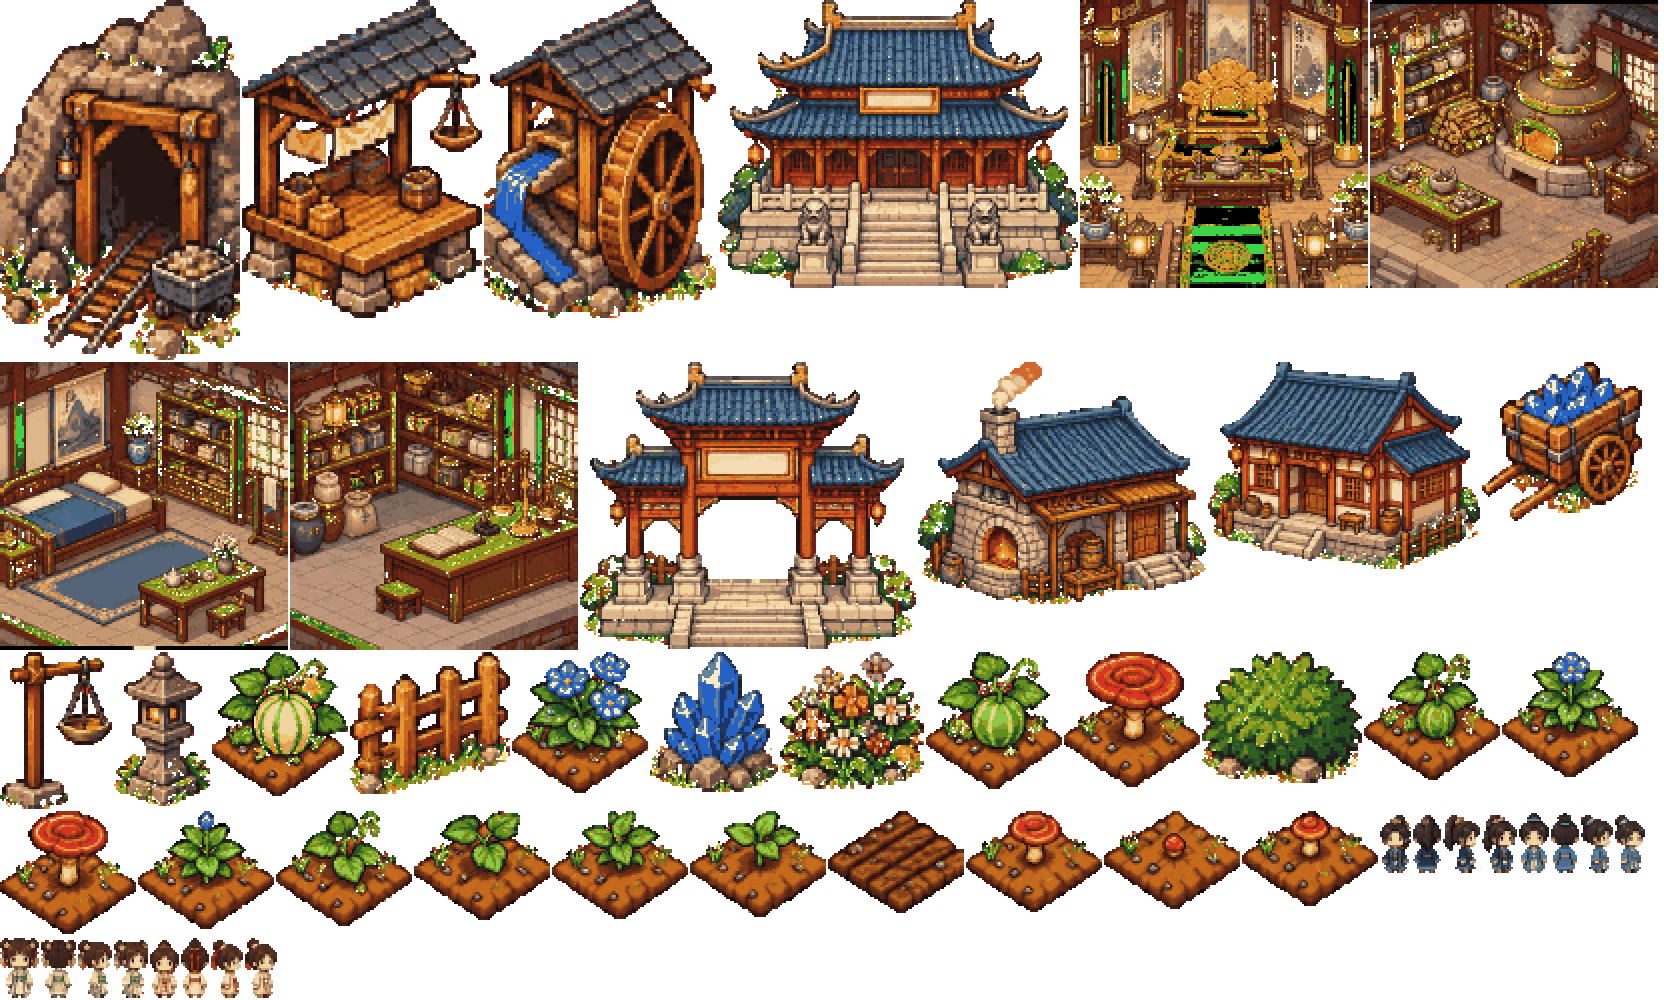
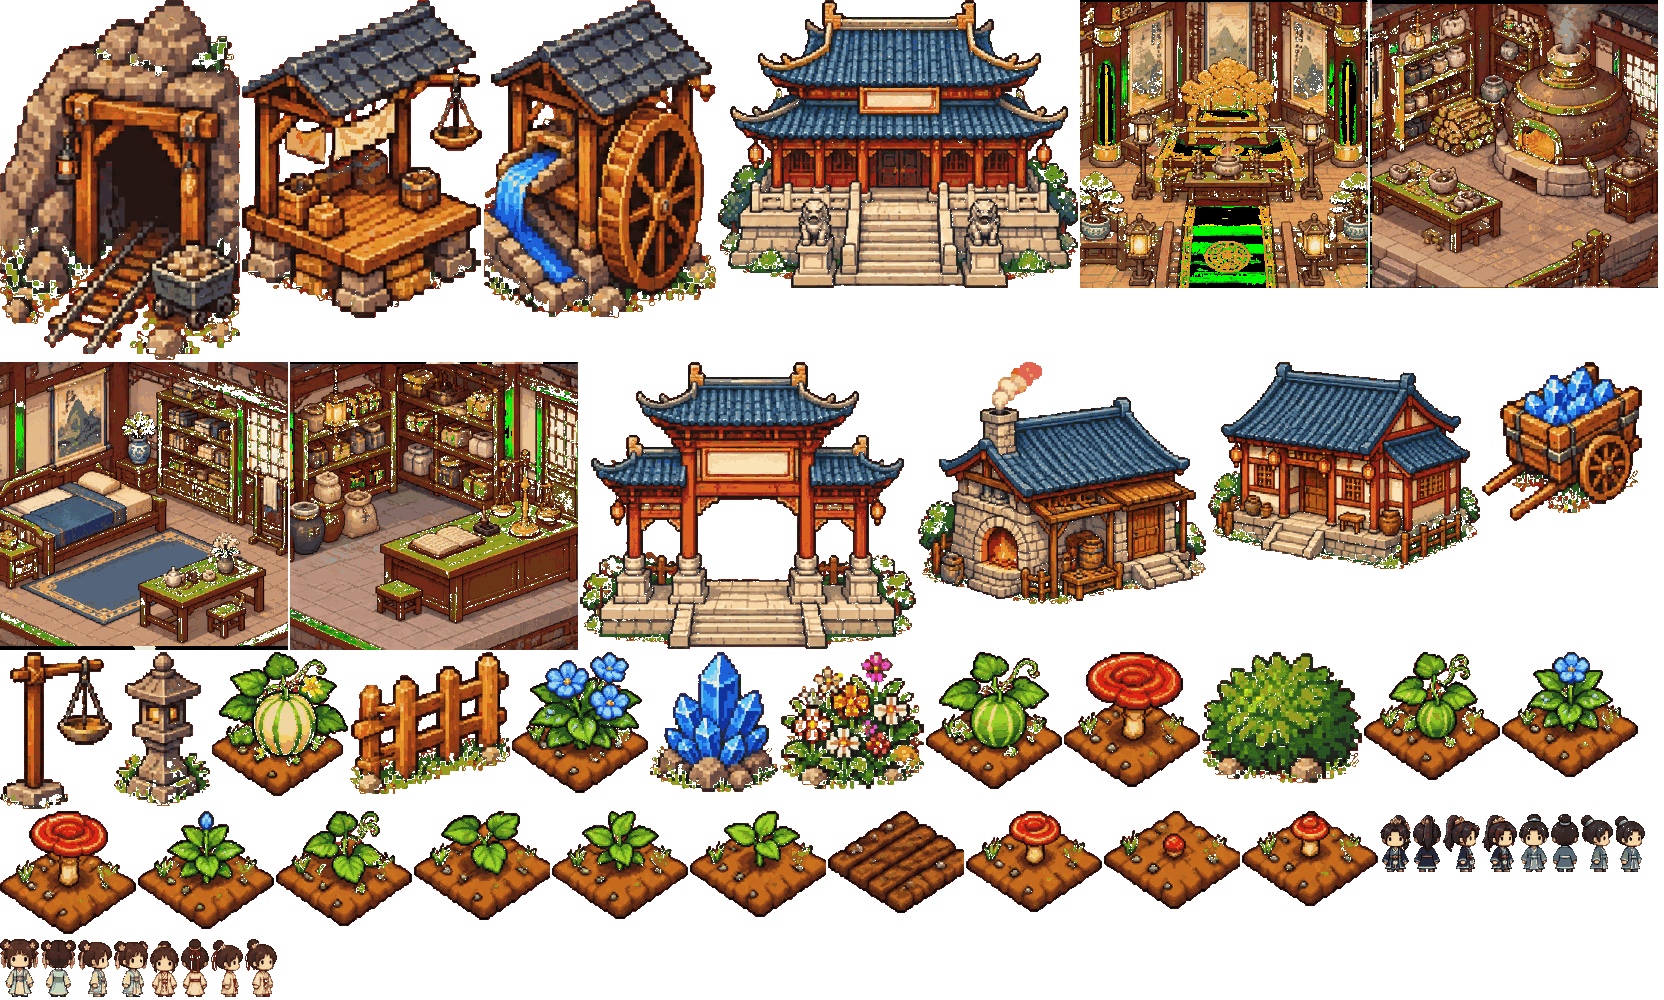
fix15 像素高密度重做：撤销fix14降采样(人物恢复64网格+组调色板限色/众数簇清理/硬alpha纪律)；地面层÷2→÷1(texel=1世界px)；地面贴图shyfai重生2整表8贴图(密草/花草/土路/垄沟田土/水面/岩面/石板/岸线+衍生帧,色相向岸线蓝对齐)；建筑/UI f=1同纪律重处理；fix14层断言改÷1口径并登记原因,新增fix15专项(手机视口390×844/DSF3)6/6；全套25套件全绿

Changed region(s): [[0.0, 0.0, 1.0, 1.0]]

diff --git a/index.html b/index.html
@@ -1555,7 +1555,7 @@ const Scene = {
      file:// 下读像素被污染则只降采样不锁色。试点层以此为兜底基底（石板坪/岩面等无原生贴图区沿用它）。 */
   _pixelBaseCanvas(){
     const src = this.staticLayer; if (!src) return null;
-    const F = 2, w = Math.floor(CONFIG.world.w / F), h = Math.floor(CONFIG.world.h / F);   // fix14：÷3→÷2，地面 texel（2 世界px）与人物 texel（≈1.95）对齐，消除像素尺度三倍差
+    const F = 1, w = Math.floor(CONFIG.world.w / F), h = Math.floor(CONFIG.world.h / F);   // fix15：÷1，地面 texel＝1 世界px（fix14 的 ÷2 仍偏粗，主人复否后改最高密度）
     const c = document.createElement('canvas'); c.width = w; c.height = h;
     const g = c.getContext('2d'); g.imageSmoothingEnabled = true;
     g.drawImage(src, 0, 0, w, h);
@@ -1579,11 +1579,11 @@ const Scene = {
   /* 像素地面层（全量批 v2）：布局与 _paintGroundTextured 逐项同构，贴图源全换原生像素——
      草地 pxp 草 A＋pxf 草 B（S7 带花）双贴图马赛克 → 土路动线 → 药圃田基 → 池塘水面＋S7 岸线三向
      → 矿区岩面（S7）→ 石板前坪×5 与大殿石阶（S7 台阶格，石板/台阶共用此格——生图侧清单本就同格）。
-     pxf 地面帧未就绪才回退试点口径（石板/矿区/石阶从样板基底裁回）。构建在 ÷2 层上（fix14 由 ÷3 改），最近邻出图。 */
+     pxf 地面帧未就绪才回退试点口径（石板/矿区/石阶从样板基底裁回）。构建在 ÷1 层上（fix15 由 ÷2 改，贴图 1:1 采样），最近邻出图。 */
   _buildPixelLayerNative(){
     const base = this._pixelBaseCanvas(); if (!base){ this.pixelLayer = null; return; }
     if (!Art.F['pxp_gnd_grass_v1.png'] || !Art.F['pxp_gnd_dirt_v1.png'] || !Art.F['pxp_gnd_field_v1.png'] || !Art.F['pxp_gnd_water_v1.png']){ this.pixelLayer = null; return; }
-    const F = 2, W = CONFIG.world.w, H = CONFIG.world.h;   // fix14：÷3→÷2（与 _pixelBaseCanvas 同步）
+    const F = 1, W = CONFIG.world.w, H = CONFIG.world.h;   // fix15：÷1（与 _pixelBaseCanvas 同步）
     const c = document.createElement('canvas'); c.width = base.width; c.height = base.height;
     const g = c.getContext('2d'); g.imageSmoothingEnabled = false;
     g.drawImage(base, 0, 0);
